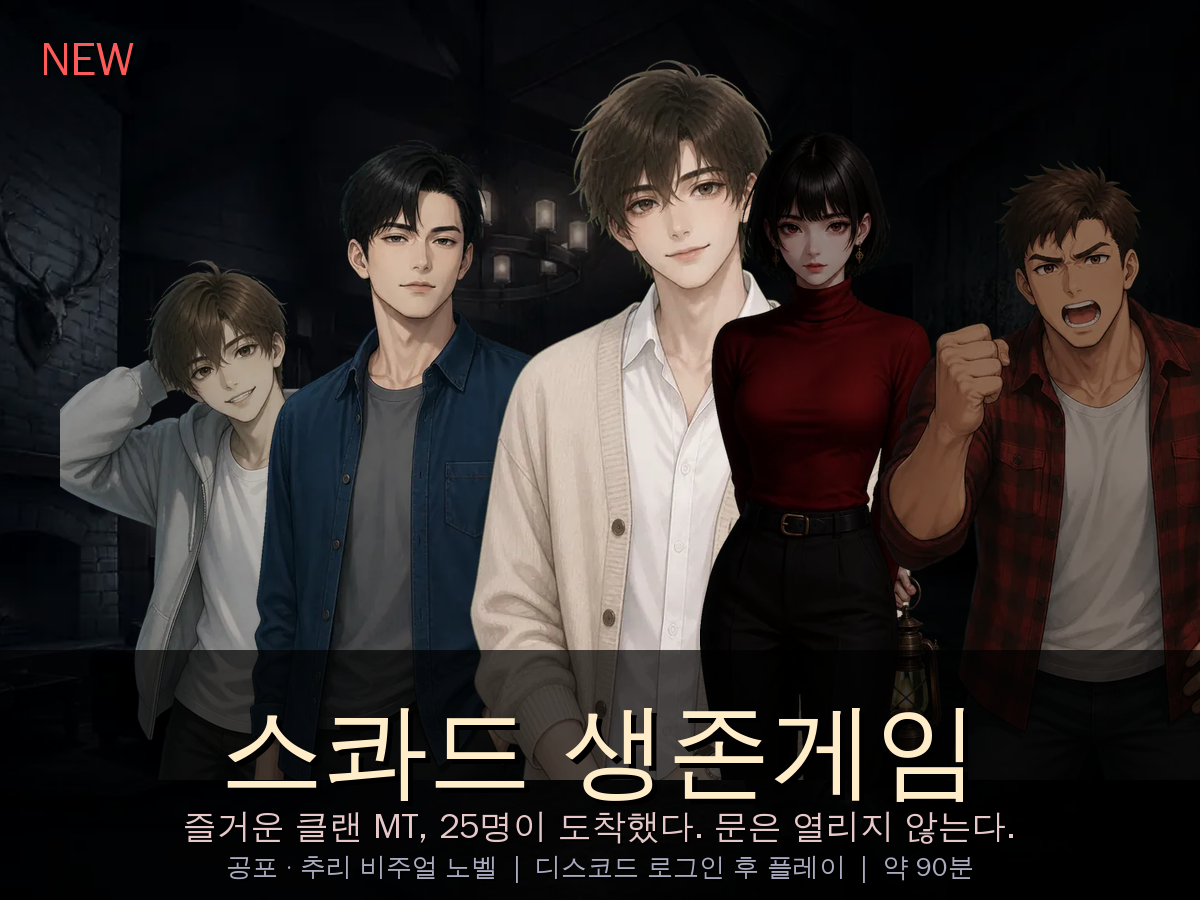
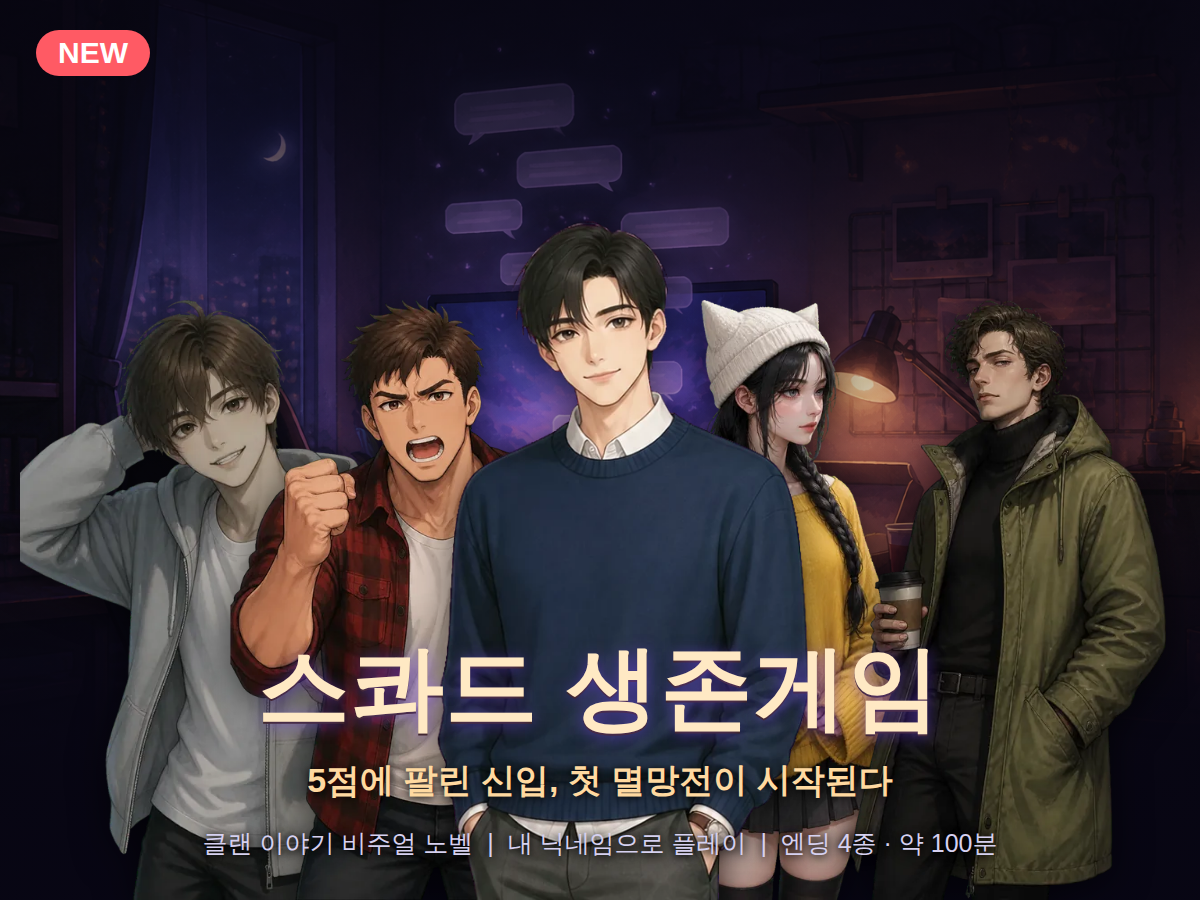
스콰드 생존게임 홍보 배너·팝업·공지를 새 이야기로 교체(그림 2장·문구·팝업 다시 보이기)
Claude-Session: https://claude.ai/code/session_018GzTivP446Z4KhefLmvcv5

diff --git a/index.html b/index.html
@@ -1335,7 +1335,7 @@ window.SGG_DC_BOOT=(function(){
 <div id="novelPop" class="brjpop" hidden role="dialog" aria-modal="true" aria-label="스콰드 생존게임 안내">
   <div class="brjpop-bd"></div>
   <div class="brjpop-box">
-    <a href="novel.html" class="brjpop-img"><img src="img/novel_promo.png" alt="스콰드 생존게임 — 공포·추리 비주얼 노벨, 디스코드 로그인 후 플레이"></a>
+    <a href="novel.html" class="brjpop-img"><img src="img/novel_promo.png?v=2" alt="스콰드 생존게임 — 5점에 팔린 신입, 첫 멸망전이 시작된다. 클랜 이야기 비주얼 노벨"></a>
     <div class="brjpop-bar">
       <button class="brjpop-btn ghost" onclick="novelPopClose(true)">일주일간 보지 않기</button>
       <a class="brjpop-btn go" href="novel.html">지금 플레이</a>
@@ -1369,7 +1369,7 @@ window.SGG_DC_BOOT=(function(){
     </div>
     <a class="coachlink" href="brjang.html" title="브장신 키우기 — 디스코드 마스코트 육성 미니게임 소개 · 후원 안내 · 맛동산 상점" style="color:#ffb347;border-color:#4a3418;background:#1e1309"><span class="t">브장신 키우기</span></a>
     <a class="coachlink" href="survivors.html" title="흐접새우 서바이벌 — 8분 버티기 웹 미니게임 · 디스코드 로그인하면 순위표" style="color:#ff9a8a;border-color:#4a2420;background:#1e0f0d"><span class="t">🦐 서바이벌</span></a>
-    <a class="coachlink" href="novel.html" title="스콰드 생존게임 — 공포·추리 비주얼 노벨 · 디스코드 로그인 필요" style="color:#ffd9a0;border-color:#4a3a20;background:#1e1810"><span class="t">📖 생존게임</span></a>
+    <a class="coachlink" href="novel.html" title="스콰드 생존게임 — 클랜 이야기 비주얼 노벨 · 디스코드 로그인 필요" style="color:#ffd9a0;border-color:#4a3a20;background:#1e1810"><span class="t">📖 생존게임</span></a>
     <a class="coachlink" href="coach.html" title="고스트밴픽왕 — 내 밴·픽 차례에 AI가 추천해주는 구독 서비스"><span class="t">고스트밴픽왕</span></a>
     <a class="dl" href="https://kjp1583-art.github.io/squad-analyzer/analyzer.html" title="스쿼드해체분석기 — 기능 소개와 다운로드">🖥 <span class="t">스쿼드해체분석기</span> <span class="dlver" id="dlver"></span></a>
   </div>
@@ -6443,7 +6443,7 @@ function roleBadge(name){
 let WEB_MEGA=[],_megaIdx=0,_megaTimer=null;
 // 📣 [2026-09-03 사장님 지시] 공지 = 🍗 브장신 키우기 출시 안내. 다음 행사 공지가 생기면 교체할 것.
 const MEGA_NOTICES=[
-  {notice:true,msg:"📖 신규 '스콰드 생존게임' 오픈! — 클랜 MT에 초대받은 25명, 하나씩 사라진다. 공포·추리 비주얼 노벨(약 90분)로 호스트의 정체를 추리해 보세요. 디스코드 로그인 후 플레이 · 상단 '📖 생존게임' 버튼으로 바로 가기."},
+  {notice:true,msg:"📖 '스콰드 생존게임'이 새 이야기로 돌아왔어요! — 5점에 팔린 신입으로 들어가는 첫 멸망전. 내 닉네임으로 플레이하는 클랜 이야기 비주얼 노벨(엔딩 4종 · 약 100분). 디스코드 로그인 후 플레이 · 상단 '📖 생존게임' 버튼으로 바로 가기."},
   {notice:true,msg:"🍗 신규 미니게임 '브장신 키우기' 출시! — 디스코드 #브장신키우기 채널에서 채팅으로 플레이. \"쓰다듬기\"로 알을 받고, 내전·밴픽퀴즈로 모은 사료를 \"먹이\"로 먹여 8단계 진화 · bhc 합정점 \"출근\"→\"퇴근\"으로 경험치 수확 · 유니크 칭호 1개당 성장 +10%"},
   {notice:true,msg:"📖 시나리오 '브장신, 멸망전 우승하기' 7부 28막 — \"이야기\"로 진행, 🎲 20면 주사위 + 능력치 판정, 클랜원 까메오 40종 · ⚔ 클랜원 시그니처 장비 25종(집중겜의 치속크라켄·해원의 BL노트·언진의 응애 이모티콘 세트…)은 저확률 드롭, \"장터\"에서 포인트로 거래 · 자세한 룰은 [브장신 키우기] 탭"},
 ];
@@ -10531,7 +10531,7 @@ function togglePrivacy(){$("#privacy").classList.toggle("hidden");}
 const BRJ_POP_KEY="brjPromoHideUntil";
 const WELCOME_FIRST_VISIT=(()=>{ try{ return localStorage.getItem("sgg_welcome_off")!=="1"; }catch(e){ return false; } })();   // 이 방문에 안내 카드가 보이는가(페이지를 연 순간 기준)
 /* 📖 [2026-10-02 사장님 지시] 스콰드 생존게임 홍보 팝업 — 첫 진입 시 1회(브장신 팝업보다 우선, 같은 방문엔 하나만) */
-const NOVEL_POP_KEY="novelPromoHideUntil";
+const NOVEL_POP_KEY="novelPromoHideUntil2";   // 새 이야기로 바뀌어 예전에 "일주일간 보지 않기"를 누른 사람에게도 한 번 다시 보인다
 function novelPopShow(){
   if(WELCOME_FIRST_VISIT) return;
   if(/^#(news|brj|p\/|g\/|c\/)/.test(location.hash||"")) return;
@@ -10567,7 +10567,7 @@ function renderAds(){
   const brjPool = `<a class="brjad" href="brjang.html" title="브장신 키우기 — 수영장파티 신스킨"><img src="img/brjang_promo_pool_tall.png" alt="브장신 키우기 — 수영장파티 브장신 신스킨"></a>`;   // 🏖 우측 레일은 신스킨 크리에이티브 (2026-09-13)
   // 🦐 [2026-09-30 사장님 지시] 왼쪽 레일의 브장신 키우기 광고를 흐접새우 서바이벌 광고로 교체(오른쪽 수영장파티 광고는 그대로)
   const surv = `<a class="brjad" href="survivors.html" title="흐접새우 서바이벌 — 웹 미니게임 바로 하기"><img src="img/survivors_promo_tall.png" alt="흐접새우 서바이벌 — 60분 버티기 웹 미니게임"></a>`;
-  const nov = `<a class="brjad" href="novel.html" title="스콰드 생존게임 — 공포·추리 비주얼 노벨"><img src="img/novel_promo_tall.png" alt="스콰드 생존게임 — 클랜 MT에 갇혔다, 25명 중 범인은?"></a>`;   // 📖 [2026-10-02 사장님 지시]
+  const nov = `<a class="brjad" href="novel.html" title="스콰드 생존게임 — 클랜 이야기 비주얼 노벨"><img src="img/novel_promo_tall.png?v=2" alt="스콰드 생존게임 — 5점에 팔린 신입, 첫 멸망전이 시작된다"></a>`;   // 📖 [2026-10-02 사장님 지시]
   const elL=$("#adL"); if(elL) elL.innerHTML = nov + railStoreHtml(STORES[0]);  // 좌측: 스콰드 생존게임 + BHC (흐접새우 서바이벌은 상단 링크로)
   const elR=$("#adR"); if(elR) elR.innerHTML = brjPool + railStoreHtml(STORES[1]);  // 우측: 아카보시
   const f=$("#adFooter");
@@ -11188,7 +11188,7 @@ function hofPatch(p){HOF.patch=p;renderHOF();}
 /* ============== 부팅 ============== */
 // 🔄 새 배포 자동 감지 — GitHub Pages CDN이 index.html을 최대 10분 캐시 + 오래 켜둔 탭은 갱신 없음 →
 //    10분마다·탭 복귀 시 서버의 index.html을 no-store로 받아 BUILD_ID 비교, 다르면 배너로 새로고침 유도.
-const BUILD_ID="202610071900";   // 배포 스크립트가 커밋 시점 타임스탬프로 치환
+const BUILD_ID="202610072300";   // 배포 스크립트가 커밋 시점 타임스탬프로 치환
 let _newBuildNotified=false, _buildEtag=null, _lastBuildChk=0;
 async function checkNewBuild(){
   if(location.protocol!=="https:"||_newBuildNotified||BUILD_ID==="__BUILD_"+"ID__") return;
